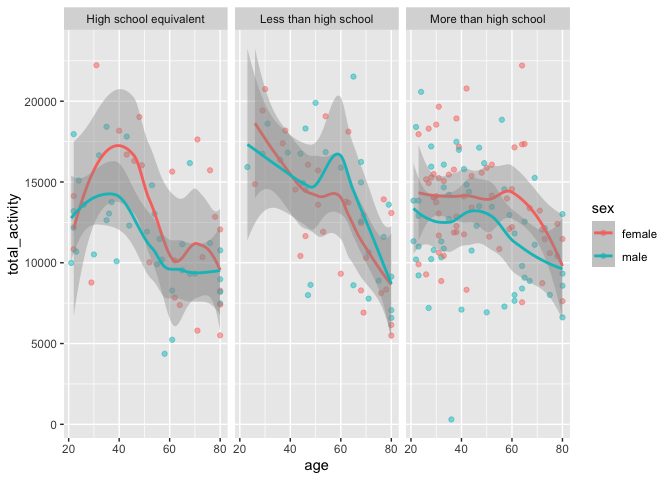
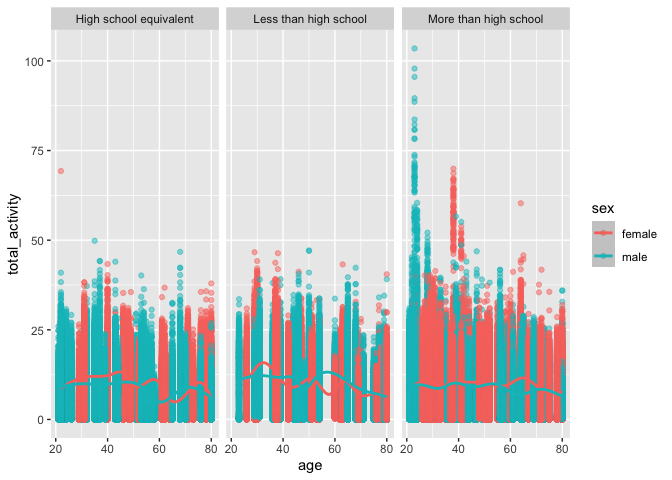
Final commit. Updates to problem 2

diff --git a/HW3_2.md b/HW3_2.md
@@ -297,12 +297,12 @@ trend line or a smooth to illustrate differences. Comment on your plot.
 merged_df_totalact <-
   merged_df |>
   drop_na(education, age, bmi, sex, seqn) |>
-  group_by(seqn, sex, education, age) |>
+  group_by(seqn, sex, education, age, min) |>
   summarize(total_activity = sum(min, na.rm = TRUE)) |>
   ungroup()
 ```
 
-    ## `summarise()` has grouped output by 'seqn', 'sex', 'education'. You can
+    ## `summarise()` has grouped output by 'seqn', 'sex', 'education', 'age'. You can
     ## override using the `.groups` argument.
 
 ``` r
@@ -313,7 +313,7 @@ ggplot(merged_df_totalact,
   facet_grid(. ~ education) 
 ```
 
-    ## `geom_smooth()` using method = 'loess' and formula = 'y ~ x'
+    ## `geom_smooth()` using method = 'gam' and formula = 'y ~ s(x, bs = "cs")'
 
 ![](HW3_2_files/figure-gfm/unnamed-chunk-14-1.png)<!-- -->
 
@@ -322,6 +322,22 @@ day. Make a three-panel plot that shows the 24-hour activity time
 courses for each education level and use color to indicate sex. Describe
 in words any patterns or conclusions you can make based on this graph;
 including smooth trends may help identify differences.
+
+``` r
+ggplot(merged_df_totalact,
+       aes(x = min, y = total_activity, color = sex, fill = sex)) +
+  geom_point(alpha = .5) +
+  geom_smooth(se = FALSE) + 
+  facet_grid(. ~ education) 
+```
+
+    ## `geom_smooth()` using method = 'gam' and formula = 'y ~ s(x, bs = "cs")'
+
+![](HW3_2_files/figure-gfm/unnamed-chunk-15-1.png)<!-- -->
+
+Data appears off and unable to troubleshoot. However we would expect the
+most amount of activity during day time hours (maybe after 7am), and
+activity decreasing in the evening (after 9pm).
 
 \###Problem 3###
 
@@ -477,7 +493,7 @@ ggplot(citibike_variation,
       facet_grid(. ~ year)
 ```
 
-![](HW3_2_files/figure-gfm/unnamed-chunk-22-1.png)<!-- -->
+![](HW3_2_files/figure-gfm/unnamed-chunk-23-1.png)<!-- -->
 
 There were overall longer duration rides in 2020 compared to 2024.
 Across both years, the summer month July has higher mediation duration
@@ -493,11 +509,14 @@ duration. Comment on your results.
 citibike_dist <- citibike_tidy |>
   filter(year == 2024)
 
-ggplot(citibike_dist, aes(x = month, y = duration, fill = rideable_type)) +
+ggplot(citibike_dist, aes(x = member_casual, y = duration, fill = rideable_type)) +
   geom_boxplot() +
   facet_grid(month ~ rideable_type) 
 ```
 
-![](HW3_2_files/figure-gfm/unnamed-chunk-23-1.png)<!-- -->
+![](HW3_2_files/figure-gfm/unnamed-chunk-24-1.png)<!-- -->
 
-In
+Casual members appear to have higher median ride durations than members
+do across both monthy and rideable_type. January tends to have short
+ride durations than July does, which makes sense since it is easier and
+more enjoyable to bike in the summer. ride in the summer
